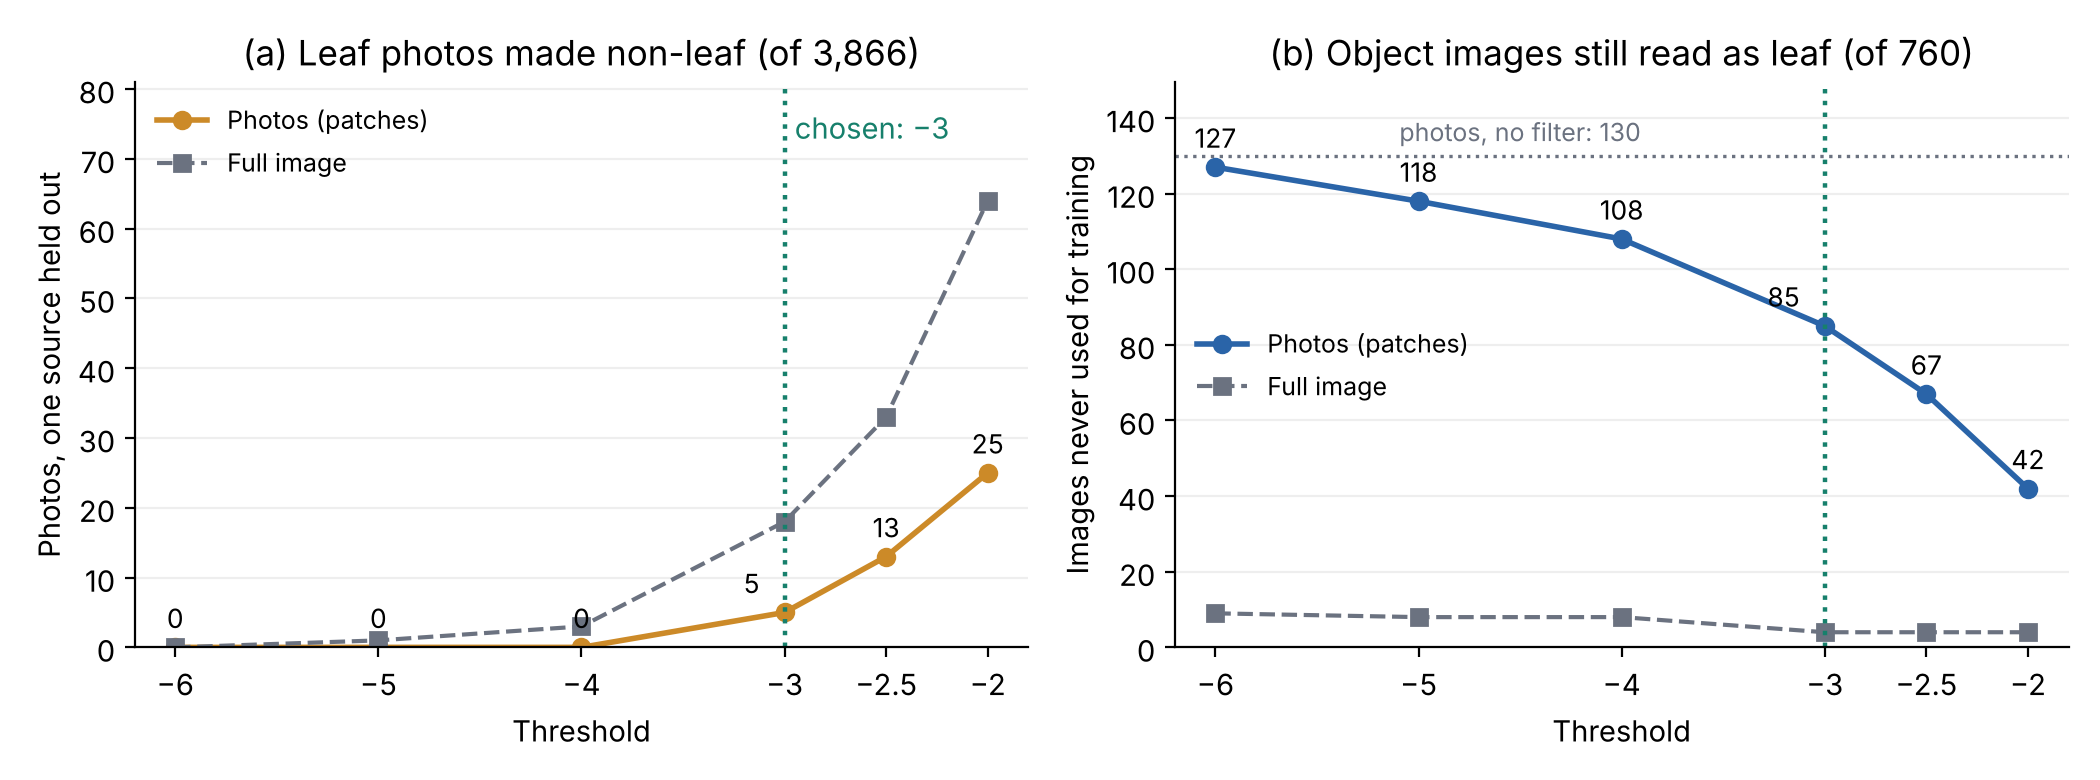
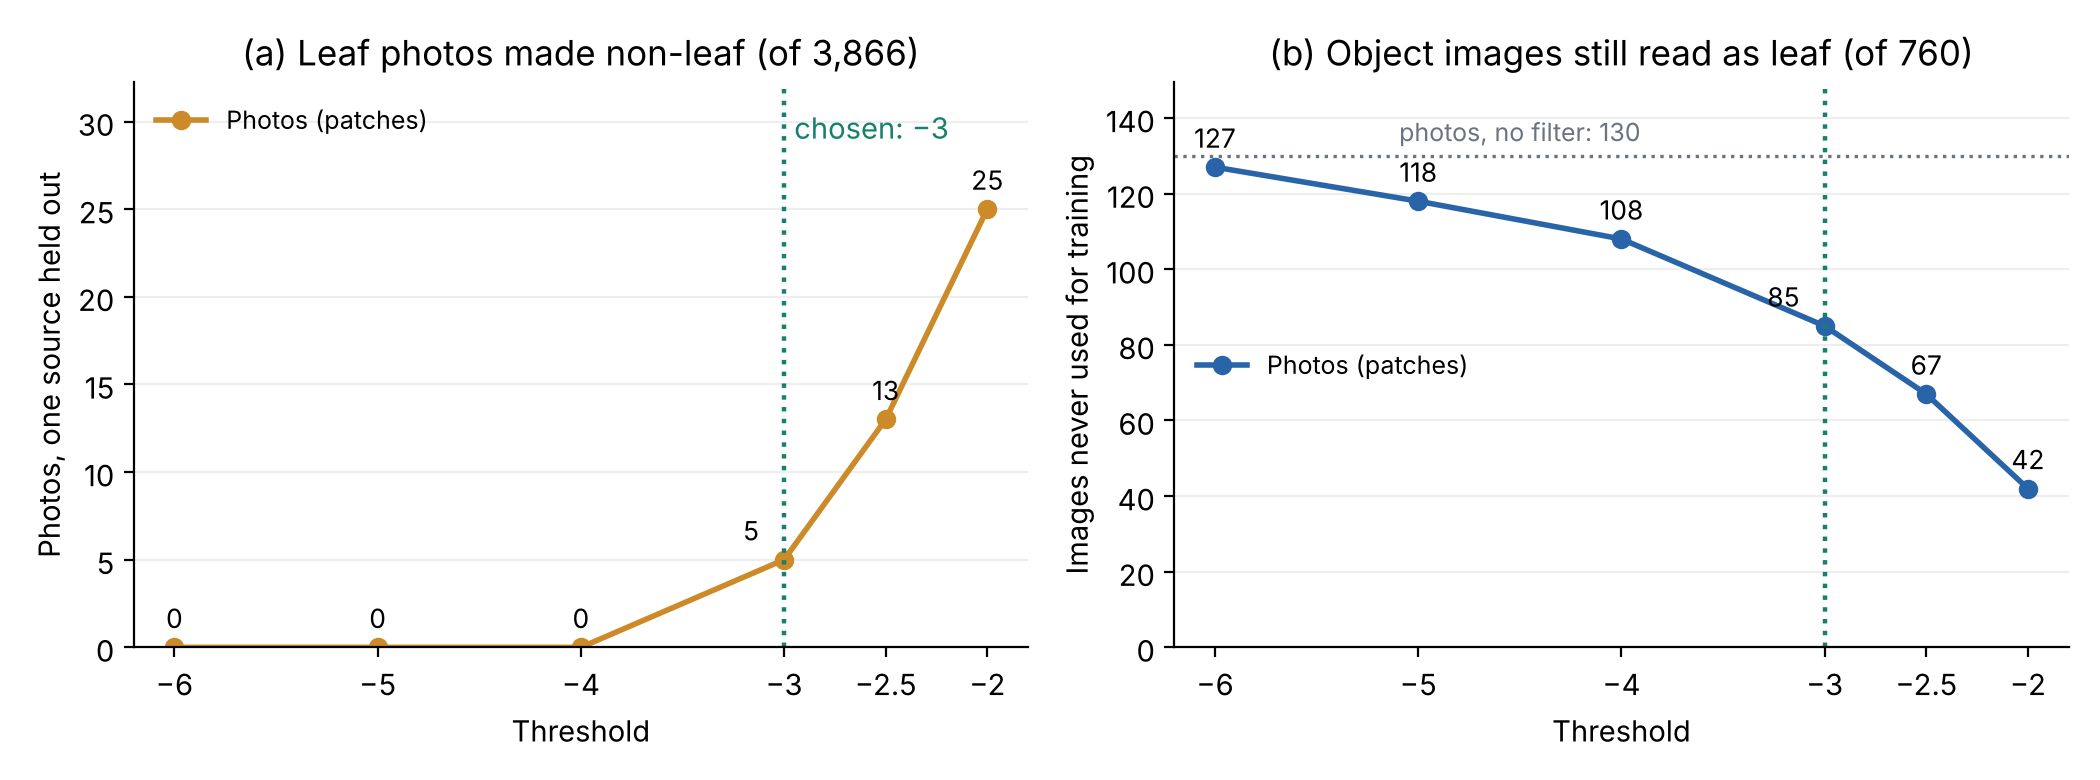
Un solo resultado por foto también en herramientas y documentación
El dron ya no lee la foto completa en el video, pero varios textos y
herramientas seguían hablando del "video en vivo" o mostraban dos
resultados por foto.

- diagnosticar.py imprime por defecto solo el resultado por cuadros, el
  mismo del dron y la página; la foto completa y el v1 salen solo con
  --comparar, marcados como referencia.
- figura_filtro.py grafica por defecto solo las fotos por cuadros
  (--con-foto-completa agrega la otra sonda); figura regenerada.
- Comentarios, docstrings, encabezados de la evaluación y descripción de
  la sonda en el JSON: la foto completa es el modo "imagen", sin uso en
  el dron desde el 18 de noviembre.
- GUIA-PARCHES, vision/README, jetson/README y decisiones al día.

Claude-Session: https://claude.ai/code/session_014PXiFnWTb6hpKDVKhnt6kG

diff --git a/vision/train/filtro_hoja.py b/vision/train/filtro_hoja.py
@@ -29,11 +29,12 @@ Qué hace:
    hoja; uno más bajo (-4) casi no atrapa objetos.
    El reporte de este script muestra los dos lados con el 20 % de las fotos apartado (al azar, así
    que de las mismas fuentes: es más optimista que dejar fuera una fuente).
-5. Una segunda sonda para la foto completa reducida, que es lo que usa el video en vivo del
-   dron (modo "imagen"): los rasgos de una imagen entera no se parecen a los de un cuadro.
+5. Una segunda sonda para la foto completa reducida (modo "imagen"). Desde el 18 de noviembre
+   el dron ya no la usa: el video no diagnostica y cada foto se revisa solo por cuadros, igual
+   que la página. Se conserva por si se vuelve a usar el modo "imagen". Los rasgos de una imagen entera no se parecen a los de un cuadro.
    Umbral --umbral-imagen (-3). Dejando fuera una fuente a la vez cambiaron 18 de 3866 fotos de
    hoja (15 de una fuente de hojas recortadas sobre fondo negro; ninguna aérea) y los objetos que
-   el video leía como hoja bajaron de 10 a 4 de 760. En ese modo el modelo ya rechaza casi todos
+   la foto completa leía como hoja bajaron de 10 a 4 de 760. En ese modo el modelo ya rechaza casi todos
    los objetos solo, porque ve la escena completa.
 
 --excluir-fuentes deja fuera fuentes de hoja (la fuente es lo que va antes de "__" en el nombre
@@ -132,7 +133,7 @@ class Rasgos:
         return f, ~np.isin(p.argmax(1), self.ignorar), np.array([color_hoja(t) for t in x])
 
     def completa(self, img: np.ndarray) -> tuple[np.ndarray, bool]:
-        """(rasgos D, ¿el modelo la lee como hoja?) de la foto completa reducida (video en vivo)."""
+        """(rasgos D, ¿el modelo la lee como hoja?) de la foto completa reducida (modo "imagen")."""
         p, f = self.sesion.run(None, {self.entrada: self.c._tensor(img, cv2.INTER_LINEAR)[None]})
         return f[0].astype(np.float32), int(p[0].argmax()) not in self.ignorar
 
@@ -219,7 +220,7 @@ def main() -> None:
                     help="otro umbral para cuadros con color de hoja (por omisión, el mismo)")
     ap.add_argument("--verde-min", type=float, default=0.2, help="fracción del cuadro con color de hoja")
     ap.add_argument("--modo", choices=["foto", "cuadro"], default="foto")
-    ap.add_argument("--umbral-imagen", type=float, default=-3.0, help="sonda de la foto completa (video en vivo)")
+    ap.add_argument("--umbral-imagen", type=float, default=-3.0, help="sonda de la foto completa (modo imagen; el dron ya no la usa)")
     ap.add_argument("--lam", type=float, default=1e-2, help="regularización L2")
     ap.add_argument("--apartar", type=float, default=0.2, help="fracción de fotos para el reporte")
     ap.add_argument("--seed", type=int, default=0)
@@ -305,7 +306,7 @@ def main() -> None:
             print(f"{uv:5.1f} / {u:5.1f} | {pierde:4d} de {len(Hte):4d} | {quedan:4d} de {len(Ote)} (sin filtro: {antes}){marca}")
 
     wi, bi = entrenar(*XY_imagen(Htr, Otr), args.lam)
-    print("\nVideo en vivo (foto completa) | fotos de hoja apartadas que pasan a sin hoja | objetos apartados que aún se leen como hoja")
+    print("\nFoto completa (modo imagen, sin uso en el dron) | fotos de hoja apartadas que pasan a sin hoja | objetos apartados que aún se leen como hoja")
     antes = sum(es for _, (_, es) in Ote)
     for t in [-5, -4, -3, -2, -1]:
         pierde = sum(es and f @ wi + bi < t for _, (f, es) in Hte)
@@ -334,7 +335,7 @@ def main() -> None:
                       "fuentes_excluidas": sorted(excluir),
                       "cuadros_hoja": int(y.sum()), "cuadros_objetos": int((1 - y).sum())},
         "imagen": {
-            "descripcion": "Sonda para la foto completa reducida (video en vivo del dron). "
+            "descripcion": "Sonda para la foto completa reducida (modo imagen; el dron ya no la usa). "
                            "Si w · rasgos + b < umbral, la imagen cuenta como sin hoja.",
             "umbral": args.umbral_imagen,
             "b": round(bi, 5),

diff --git a/vision/diagnosticar.py b/vision/diagnosticar.py
@@ -1,11 +1,14 @@
-"""Explica por qué el modelo dio un resultado en una foto: cuadro por cuadro, foto completa y v1.
+"""Explica por qué el modelo dio un resultado en una foto, cuadro por cuadro.
 
+El resultado es el mismo que da el dron y la página web: el v2 por cuadros sobre la foto.
 Sirve para revisar fotos donde el resultado parece mal (p. ej. una hoja con Sigatoka que sale
-"sana"). No cambia nada; solo imprime.
+"sana"). No cambia nada; solo imprime. Con --comparar imprime también la foto completa
+reducida y el modelo v1, solo como referencia: ni el dron ni la página los usan.
 
 Uso (desde la raíz del repo):
     python vision/diagnosticar.py foto1.jpg foto2.jpg
     python vision/diagnosticar.py --ultimas 3          # las 3 fotos más nuevas del dron
+    python vision/diagnosticar.py --comparar foto.jpg  # además, foto completa y v1
 En la Jetson, con el Python del dron:
     ~/ZED_Pruebas/.venv/bin/python vision/diagnosticar.py --ultimas 3
 """
@@ -38,6 +41,7 @@ def main() -> None:
     ap = argparse.ArgumentParser(description=__doc__, formatter_class=argparse.RawDescriptionHelpFormatter)
     ap.add_argument("fotos", nargs="*", type=Path)
     ap.add_argument("--ultimas", type=int, default=0, help=f"las N fotos más nuevas de {FOTOS_DRON}")
+    ap.add_argument("--comparar", action="store_true", help="también la foto completa y el v1 (solo referencia)")
     args = ap.parse_args()
     fotos = list(args.fotos) + (ultimas(args.ultimas) if args.ultimas else [])
     if not fotos:
@@ -45,7 +49,7 @@ def main() -> None:
 
     v2 = Clasificador(RAIZ / "vision/models/sigatoka_cls_v2.onnx")
     v1_ruta = RAIZ / "vision/models/sigatoka_cls_v1.onnx"
-    v1 = Clasificador(v1_ruta) if v1_ruta.exists() else None
+    v1 = Clasificador(v1_ruta) if args.comparar and v1_ruta.exists() else None
     cl = v2.clases
     print(f"v2: umbral {v2.umbral}, temperatura {v2.temperatura}, filtro de hoja "
           f"{'sí' if v2.filtro is not None else 'no'}")
@@ -60,7 +64,7 @@ def main() -> None:
         r = v2.predecir_bgr(img, "parches")
         print(f"  tamaño {ancho} x {alto}; {r.get('n_cuadros')} cuadros, {r.get('n_parches')} de hoja"
               f"{'; el filtro quitó ' + str(r['n_filtrados']) if r.get('n_filtrados') else ''}")
-        print(f"  v2 por cuadros (fotos del dron y página): {r['clase']} {r['confianza']:.2f}"
+        print(f"  Resultado (el mismo del dron y la página): {r['clase']} {r['confianza']:.2f}"
               f"{'' if r['confianza'] >= v2.umbral else ' (no seguro)'}")
         print(f"     puntajes: {fmt(r['probs'])}")
         print(f"     cuadros seguros por clase: {r.get('votos')}")
@@ -74,11 +78,13 @@ def main() -> None:
             for i in orden:
                 q = lista[i]
                 print(f"       ({q['x']}, {q['y']}, {q['w']}): " + " ".join(f"{c} {p:.2f}" for c, p in zip(cl, probs[i])))
+        if not args.comparar:
+            continue
         rv = v2.predecir_bgr(img, "imagen")
-        print(f"  v2 foto completa (video en vivo): {rv['clase']} {rv['confianza']:.2f} | {fmt(rv['probs'])}")
+        print(f"  Solo referencia, no se usa: v2 foto completa {rv['clase']} {rv['confianza']:.2f} | {fmt(rv['probs'])}")
         if v1 is not None:
             r1 = v1.predecir_bgr(img, "imagen")
-            print(f"  v1 foto completa (modelo anterior): {r1['clase']} {r1['confianza']:.2f} | {fmt(r1['probs'])}")
+            print(f"  Solo referencia, no se usa: v1 foto completa {r1['clase']} {r1['confianza']:.2f} | {fmt(r1['probs'])}")
 
 
 if __name__ == "__main__":

diff --git a/vision/train/evaluar_filtro.py b/vision/train/evaluar_filtro.py
@@ -1,6 +1,7 @@
 """Evalúa el filtro "¿esto es hoja de plátano?" (vision/rasgos.py) sin tocar el modelo.
 
-Responde dos preguntas, para la regla por cuadros (fotos) y para la de foto completa (video):
+Responde dos preguntas, para la regla por cuadros (fotos) y para la de foto completa (modo "imagen",
+que el dron ya no usa desde el 18 de noviembre):
 1. ¿Cuántas fotos de hoja vuelve "sin hoja"? Se deja fuera una fuente de fotos de hoja a la vez:
    la sonda se entrena con las demás y se prueba con la que quedó fuera. Imita fotos de un
    celular o de una plantación que el filtro nunca vio. Una foto "cambia" si sin filtro el
@@ -167,7 +168,7 @@ def main() -> None:
                 loo["imagen"][u][s_fuera] += imagen_cambia(d, si, u)
             loo["cuadro_primera"][s_fuera] += cuadro_veredicto(d, s, -4.0, 0.0) != d["base"]
         print(f"  sin {s_fuera} ({len(fuera)} fotos): cambian {loo['foto'][args.elegido][s_fuera]} (fotos, {args.elegido}), "
-              f"{loo['imagen'][args.elegido][s_fuera]} (video)", flush=True)
+              f"{loo['imagen'][args.elegido][s_fuera]} (foto completa)", flush=True)
 
     # ---- 2. objetos que no se usaron para entrenar
     w, b = entrenar(*datos(hojas, O_tr, False), args.lam)
@@ -206,21 +207,21 @@ def main() -> None:
          "(nunca se usaron para entrenar).", "",
          "## Fotos de hoja que el filtro vuelve \"sin hoja\" (dejando fuera una fuente a la vez)", "",
          "Regla final (fotos por cuadros): la foto cuenta como sin hoja solo si ningún cuadro de hoja pasa el umbral.", "",
-         "| Umbral | Fotos (por cuadros) | Video (foto completa) |", "|---|---|---|"]
+         "| Umbral | Fotos (por cuadros) | Foto completa (sin uso en el dron) |", "|---|---|---|"]
     for u in umbrales:
         marca = " (elegido)" if u == args.elegido else ""
         L.append(f"| {u:g}{marca} | {res['loo_foto'][str(u)]['total']} de {len(hojas)} | "
                  f"{res['loo_imagen'][str(u)]['total']} de {len(hojas)} |")
     L += ["", f"Primera versión (cuadro por cuadro, umbral -4 si el cuadro tiene color de hoja y 0 si no), "
           f"reentrenada con las mismas fuentes: cambia el veredicto de {res['loo_cuadro_primera']['total']} de {len(hojas)} fotos.", "",
-          f"Por fuente, con el umbral elegido ({args.elegido:g}):", "", "| Fuente | Fotos | Cambian (fotos) | Cambian (video) |",
+          f"Por fuente, con el umbral elegido ({args.elegido:g}):", "", "| Fuente | Fotos | Cambian (fotos) | Cambian (foto completa) |",
           "|---|---|---|---|"]
     for s in fuentes:
         L.append(f"| {s} | {res['fuentes'][s]} | {res['loo_foto'][str(args.elegido)].get(s, 0)} | {res['loo_imagen'][str(args.elegido)].get(s, 0)} |")
     L += ["", "## Objetos que el modelo sigue aceptando como hoja", "",
           f"Sin filtro: {obj['sin_filtro']} de {len(O_te)} por cuadros y {obj['sin_filtro_video']} de {len(O_te)} con la foto completa. "
           f"De las {obj['poco_verde_sin_filtro']} aceptadas por cuadros con poco color de hoja (menos de 15 %), cuántas quedan:", "",
-          "| Umbral | Fotos (por cuadros) | De ellas, con poco verde | Video (foto completa) |", "|---|---|---|---|"]
+          "| Umbral | Fotos (por cuadros) | De ellas, con poco verde | Foto completa (sin uso en el dron) |", "|---|---|---|---|"]
     for u in umbrales:
         marca = " (elegido)" if u == args.elegido else ""
         L.append(f"| {u:g}{marca} | {obj['foto'][u]} | {obj['poco_verde'][u]} | {obj['video'][u]} |")

diff --git a/vision/train/figura_filtro.py b/vision/train/figura_filtro.py
@@ -2,8 +2,9 @@
 
 (a) Fotos de hoja que el filtro vuelve "sin hoja" según el umbral, dejando fuera una fuente a la vez.
 (b) Imágenes de objetos que siguen pasando como hoja según el umbral.
-Las dos para las fotos (por cuadros) y, salvo con --sin-video, para la foto completa reducida
-(la sonda de la imagen completa). La línea punteada vertical marca el umbral elegido.
+Las dos para las fotos por cuadros, que es lo que usan el dron y la página. Con --con-foto-completa
+agrega la sonda de la foto completa reducida (modo "imagen", que el dron ya no usa desde el 18 de
+noviembre). La línea punteada vertical marca el umbral elegido.
 
 Uso (necesita matplotlib, que ya trae el entorno de entrenamiento):
     python vision/train/figura_filtro.py
@@ -26,7 +27,7 @@ def main() -> None:
     ap = argparse.ArgumentParser(description=__doc__, formatter_class=argparse.RawDescriptionHelpFormatter)
     ap.add_argument("--entrada", type=Path, default=RAIZ / "vision/models/filtro_hoja_evaluacion.json")
     ap.add_argument("--salida", type=Path, default=RAIZ / "vision/models/filtro_hoja_evaluacion.png")
-    ap.add_argument("--sin-video", action="store_true", help="solo las fotos por cuadros")
+    ap.add_argument("--con-foto-completa", action="store_true", help="agrega la sonda de la foto completa (sin uso en el dron)")
     args = ap.parse_args()
     r = json.loads(args.entrada.read_text(encoding="utf-8"))
     umbrales = sorted(float(u) for u in r["loo_foto"])
@@ -44,8 +45,8 @@ def main() -> None:
     ]
     for eje, fotos, video, titulo, etiqueta, sin_filtro in series:
         eje.plot(umbrales, fotos, "o-", color=NARANJA if eje is ax[0] else AZUL, lw=2, label="Photos (patches)")
-        if not args.sin_video:
-            eje.plot(umbrales, video, "s--", color=GRIS, lw=1.5, label="Full image")
+        if args.con_foto_completa:
+            eje.plot(umbrales, video, "s--", color=GRIS, lw=1.5, label="Full image (not used on the drone)")
         for x, y in zip(umbrales, fotos):
             eje.annotate(str(y), (x, y), textcoords="offset points", xytext=(-9 if x == elegido else 0, 7),
                          ha="right" if x == elegido else "center", fontsize=9.5)
@@ -63,7 +64,7 @@ def main() -> None:
                      color=GRIS, fontsize=9, ha="center")
             eje.set_ylim(0, sin_filtro * 1.15)
         else:
-            eje.set_ylim(0, max(max(fotos), 0 if args.sin_video else max(video)) * 1.25 + 1)
+            eje.set_ylim(0, max(max(fotos), max(video) if args.con_foto_completa else 0) * 1.25 + 1)
         eje.legend(frameon=False, fontsize=9, loc="upper left" if eje is ax[0] else "center left")
     ax[0].text(elegido + 0.05, ax[0].get_ylim()[1] * 0.9, f"chosen: {elegido:g}".replace("-", "−"), color=VERDE)
     fig.tight_layout()

diff --git a/vision/clasificador.py b/vision/clasificador.py
@@ -6,7 +6,8 @@ estación de tierra (ui/estacion.py), la Jetson (jetson/zed_right.py) y cualquie
 script que necesite predecir.
 
 Dos modos:
-- "imagen": la foto completa reducida a la entrada del modelo (rápido; video en vivo).
+- "imagen": la foto completa reducida a la entrada del modelo (rápido; el dron y la página
+  usan "parches").
 - "parches": la foto se corta en cuadros de hoja a resolución nativa, se clasifica cada
   uno y se junta el veredicto (vision/parches.py). Es más lento, pero ve las lesiones
   pequeñas. Se usa en las fotos.
@@ -128,7 +129,7 @@ class Clasificador:
         p, es = self._correr([img_bgr], cv2.INTER_LINEAR, filtrar="imagen")
         r = self._resultado(p[0])
         if es is not None and not es[0] and r["clase"] != "sin_hoja":
-            # El filtro de hoja dice que la imagen no es hoja de plátano (video en vivo).
+            # El filtro de hoja dice que la imagen no es hoja de plátano.
             q = np.zeros_like(p[0])
             q[self.clases.index("sin_hoja")] = 1.0
             r = self._resultado(q)

diff --git a/vision/rasgos.py b/vision/rasgos.py
@@ -145,7 +145,7 @@ class FiltroHoja:
         self.umbral_verde = float(f.get("umbral_verde", self.umbral))
         self.verde_min = float(f.get("verde_min", 1.01))
         self.modo = f.get("modo", "foto")
-        # Sonda aparte para la foto completa reducida (el video en vivo del dron): los rasgos de
+        # Sonda aparte para la foto completa reducida (modo "imagen"; el dron ya no lo usa): los rasgos de
         # una imagen entera no se parecen a los de un cuadro recortado.
         im = f.get("imagen") or {}
         self.w_imagen = np.asarray(im["w"], dtype=np.float32) if im.get("w") else None

diff --git a/vision/README.md b/vision/README.md
@@ -8,7 +8,7 @@ Código de captura, entrenamiento e inferencia.
 | `clasificador.py` | Predice con el paquete ONNX + JSON; modo foto completa o por parches de hoja | [GUIA-PARCHES](GUIA-PARCHES.md) |
 | `parches.py` | Filtro de hoja: cuadros a resolución nativa, máscara ExG y veredicto por parches | [GUIA-PARCHES](GUIA-PARCHES.md) |
 | `rasgos.py`, `train/filtro_hoja.py`, `train/evaluar_filtro.py`, `train/figura_filtro.py` | Filtro "¿esto es hoja de plátano?": una sonda sobre los rasgos de cada cuadro para que fotos de objetos cotidianos (mesa, mano, pared) no salgan como hoja; entrenarla, evaluarla dejando fuera una fuente a la vez y graficarla | [GUIA-NOCHE](GUIA-NOCHE.md) paso 7, [evaluación](models/filtro_hoja_evaluacion.md), [decisión](../docs/decisiones/2026-11-12-filtro-de-hoja-por-foto.md) |
-| `diagnosticar.py` | Explica el resultado de una foto: parches, foto completa (video en vivo) y v1, lado a lado | [jetson/README](../jetson/README.md) |
+| `diagnosticar.py` | Explica el resultado de una foto cuadro por cuadro (el mismo del dron y la página); con `--comparar`, también la foto completa y el v1 | [jetson/README](../jetson/README.md) |
 | `train/preparar_datos.py`, `train/hacer_parches.py`, `train/calibrar.py` | Dataset v2 sin duplicados, parches de entrenamiento, calibración y comparación contra v1 | [GUIA-PARCHES](GUIA-PARCHES.md) |
 | `infer.py` | Servicio de inferencia TensorRT sobre las capturas | [07](../docs/07-inferencia-jetson.md) |
 | `train/` | Notebooks/scripts de entrenamiento (se ejecutan en Colab) y registro de experimentos | [06](../docs/06-entrenamiento.md) |

diff --git a/vision/models/filtro_hoja_evaluacion.md b/vision/models/filtro_hoja_evaluacion.md
@@ -10,7 +10,7 @@ Generado por `vision/train/evaluar_filtro.py` el 2026-11-18. No cambia el modelo
 
 Regla final (fotos por cuadros): la foto cuenta como sin hoja solo si ningún cuadro de hoja pasa el umbral.
 
-| Umbral | Fotos (por cuadros) | Video (foto completa) |
+| Umbral | Fotos (por cuadros) | Foto completa (sin uso en el dron) |
 |---|---|---|
 | -6 | 0 de 3866 | 0 de 3866 |
 | -5 | 0 de 3866 | 1 de 3866 |
@@ -23,7 +23,7 @@ Primera versión (cuadro por cuadro, umbral -4 si el cuadro tiene color de hoja 
 
 Por fuente, con el umbral elegido (-3):
 
-| Fuente | Fotos | Cambian (fotos) | Cambian (video) |
+| Fuente | Fotos | Cambian (fotos) | Cambian (foto completa) |
 |---|---|---|---|
 | azam | 1280 | 0 | 15 |
 | bananalsd | 897 | 1 | 1 |
@@ -39,7 +39,7 @@ Por fuente, con el umbral elegido (-3):
 
 Sin filtro: 130 de 760 por cuadros y 10 de 760 con la foto completa. De las 56 aceptadas por cuadros con poco color de hoja (menos de 15 %), cuántas quedan:
 
-| Umbral | Fotos (por cuadros) | De ellas, con poco verde | Video (foto completa) |
+| Umbral | Fotos (por cuadros) | De ellas, con poco verde | Foto completa (sin uso en el dron) |
 |---|---|---|---|
 | -6 | 127 | 55 | 9 |
 | -5 | 118 | 48 | 8 |

diff --git a/jetson/README.md b/jetson/README.md
@@ -153,8 +153,8 @@ sudo date -s "2026-11-12 17:05"       # sin internet, a mano con la hora real
 
 No usar `git config http.sslVerify false`: quita la protección y no arregla la hora.
 
-**Revisar una foto en detalle** (cuadro por cuadro, y para comparar, la foto completa reducida
-y el v1):
+**Revisar una foto en detalle** (cuadro por cuadro; da el mismo resultado que la foto y la página.
+Con `--comparar` imprime además la foto completa y el v1, solo como referencia):
 
 ```bash
 ~/ZED_Pruebas/.venv/bin/python vision/diagnosticar.py --ultimas 1
@@ -170,7 +170,7 @@ Al arrancar imprime la dirección, por ejemplo:
 
 | Ruta | Qué da |
 | --- | --- |
-| `/` | Página sencilla para celular: video, diagnóstico, GPS y botón de foto |
+| `/` | Página sencilla para celular: video, resultado de la última foto, GPS y botón de foto |
 | `/video` | Video MJPEG (960 px de ancho, ~12 cuadros/s; solo se codifica si alguien lo ve) |
 | `/estado` | JSON con GPS, modelo y el resultado de la última foto (`analisis_foto`; `prediccion` repite ese resultado para páginas viejas). El video no diagnostica |
 | `POST /foto` | Toma una foto como la tecla `S` y responde el nombre del archivo |

diff --git a/vision/GUIA-PARCHES.md b/vision/GUIA-PARCHES.md
@@ -47,9 +47,10 @@ El v2 hace lo que hace un agrónomo: mira la hoja por partes.
 4. **Calibración**: con temperatura (Guo et al., ICML 2017), "80 % seguro" significa
    acertar alrededor del 80 % de las veces. Así el umbral se elige con datos.
 
-En la Jetson, el **video en vivo sigue con la foto completa**, porque es rápido. **Cada
-foto** se analiza además por parches en segundo plano: tarda unos 1–3 s y el resultado
-queda en el EXIF y en la página del dron. La estación usa el modo por parches para todas
+En la Jetson, **el video en vivo no diagnostica** (solo sirve para encuadrar). **Cada foto**
+se analiza por parches sobre su copia limpia, con el mismo código que la página: tarda unos
+1–3 s, mientras tanto la foto dice `ANALIZANDO`, y el resultado (uno solo) queda en la foto,
+en el EXIF y en la página del dron. La estación usa el modo por parches para todas
 las fotos y dibuja en la foto los cuadros con síntomas.
 
 ---

diff --git a/docs/decisiones/2026-11-12-filtro-de-hoja-por-foto.md b/docs/decisiones/2026-11-12-filtro-de-hoja-por-foto.md
@@ -39,7 +39,7 @@ Las opciones 1 a 3 fueron pruebas exploratorias del 11 y 12 de noviembre; no se 
 | Sin filtro | — | 130 de 760 |
 | Primera versión (por cuadro) | 39 de 3866 | 61 de 760 |
 | Elegida (por foto, −3) | 5 de 3866 | 85 de 760 |
-| Video en vivo (foto completa, −3) | 18 de 3866 (15 de una fuente de hojas recortadas sobre fondo negro; ninguna aérea) | 4 de 760 (10 sin filtro) |
+| Foto completa, −3 (la usaba el video en vivo; sin uso desde el 18 de noviembre) | 18 de 3866 (15 de una fuente de hojas recortadas sobre fondo negro; ninguna aérea) | 4 de 760 (10 sin filtro) |
 
 La elegida atrapa menos objetos que la primera (45 de 130 contra 69), a cambio de no perder hojas
 enfermas. Perder una hoja con Sigatoka es peor que aceptar un objeto, que quien revisa sí ve.

diff --git a/docs/decisiones/2026-11-18-un-solo-resultado-por-foto.md b/docs/decisiones/2026-11-18-un-solo-resultado-por-foto.md
@@ -46,3 +46,6 @@ con la cámara real.
 - La Jetson tiene más procesador libre para revisar fotos (ya no clasifica el video).
 - La sonda del filtro de hoja para la imagen completa (`filtro_hoja.imagen`) queda sin uso en
   el dron; se conserva en el JSON por si se vuelve a usar.
+- `vision/diagnosticar.py` imprime por defecto solo ese resultado; la foto completa y el v1
+  salen únicamente con `--comparar`, marcados como referencia. La figura del filtro
+  (`figura_filtro.py`) grafica por defecto solo las fotos por cuadros.
